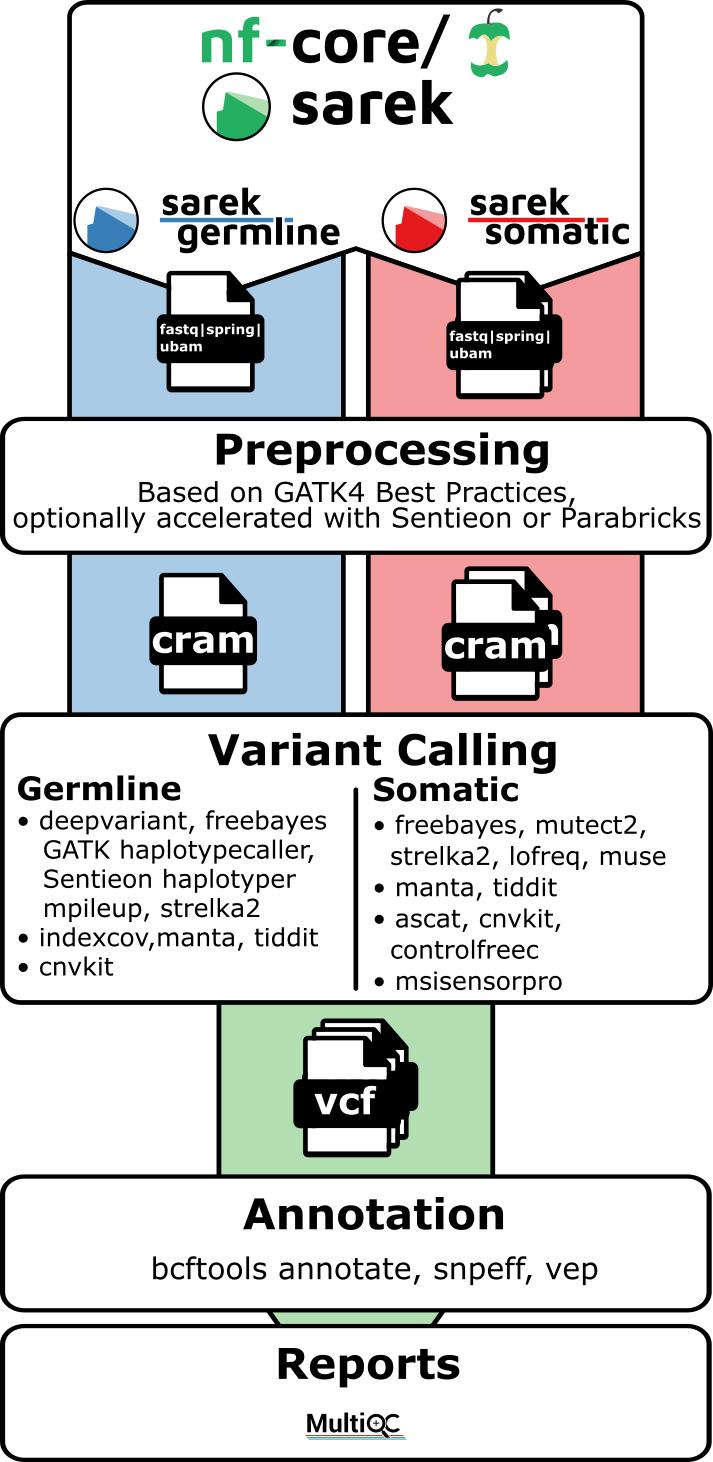
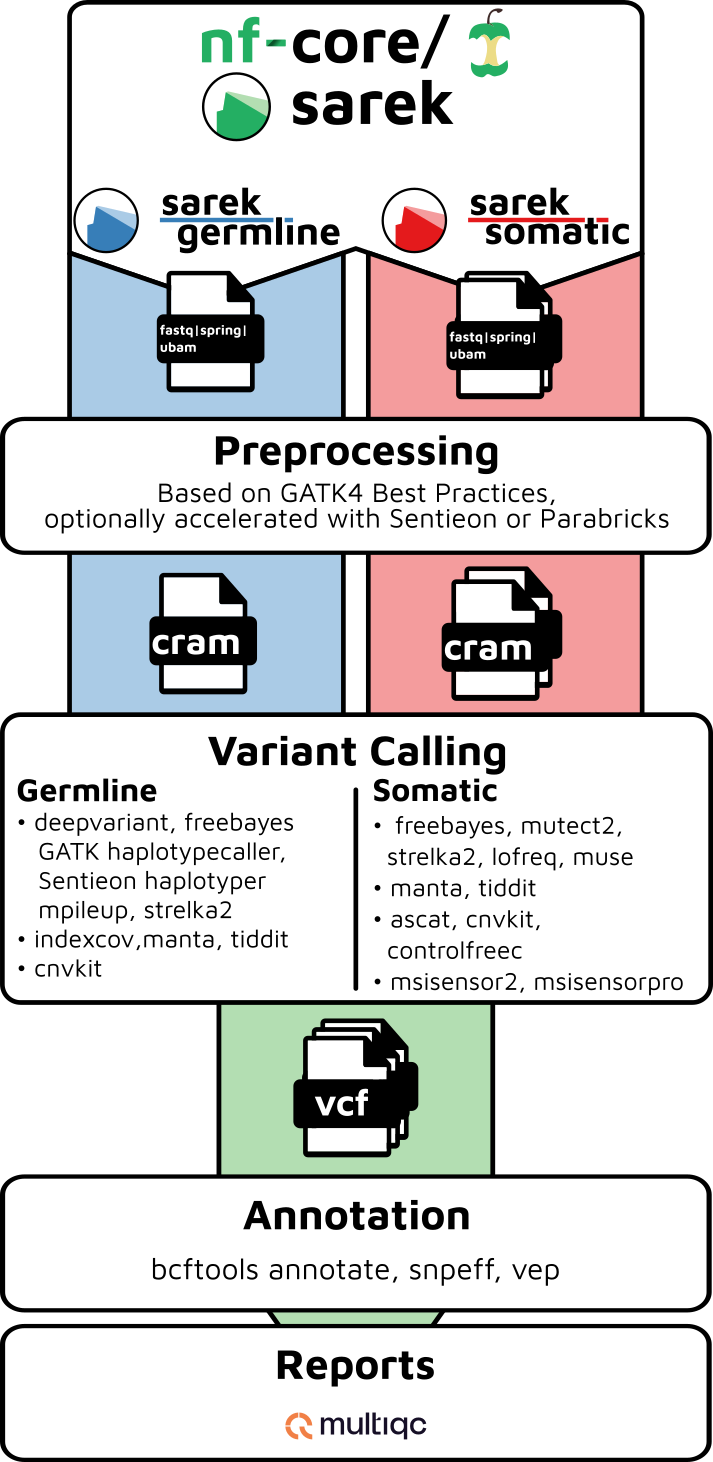
update all figures (#1985)
<!--
# nf-core/sarek pull request

Many thanks for contributing to nf-core/sarek!

Please fill in the appropriate checklist below (delete whatever is not
relevant).
These are the most common things requested on pull requests (PRs).

Remember that PRs should be made against the dev branch, unless you're
preparing a pipeline release.

Learn more about contributing:
[CONTRIBUTING.md](https://github.com/nf-core/sarek/tree/master/.github/CONTRIBUTING.md)
-->

## PR checklist

- [ ] This comment contains a description of changes (with reason).
- [ ] If you've fixed a bug or added code that should be tested, add
tests!
- [ ] If you've added a new tool - have you followed the pipeline
conventions in the [contribution
docs](https://github.com/nf-core/sarek/tree/master/.github/CONTRIBUTING.md)
- [ ] If necessary, also make a PR on the nf-core/sarek _branch_ on the
[nf-core/test-datasets](https://github.com/nf-core/test-datasets)
repository.
- [ ] Make sure your code lints (`nf-core pipelines lint`).
- [ ] Ensure the test suite passes (`nextflow run . -profile test,docker
--outdir <OUTDIR>`).
- [ ] Check for unexpected warnings in debug mode (`nextflow run .
-profile debug,test,docker --outdir <OUTDIR>`).
- [ ] Usage Documentation in `docs/usage.md` is updated.
- [ ] Output Documentation in `docs/output.md` is updated.
- [ ] `CHANGELOG.md` is updated.
- [ ] `README.md` is updated (including new tool citations and
authors/contributors).

diff --git a/CHANGELOG.md b/CHANGELOG.md
@@ -152,6 +152,7 @@ and this project adheres to [Semantic Versioning](https://semver.org/spec/v2.0.0
 - [1970](https://github.com/nf-core/sarek/pull/1970) - Update controlfreec modules to adhere to language server
 - [1975](https://github.com/nf-core/sarek/pull/1975) - Now fails when no dbnsfp_tbi is provided when dbnsfp is
 - [1977](https://github.com/nf-core/sarek/pull/1977) - Update sentieon modules to adhere to language server
+- [1985](https://github.com/nf-core/sarek/pull/1985) - Update subway maps and workflow pictures to include msisensor2 following [1965](https://github.com/nf-core/sarek/pull/1965)
 
 #### Fixed
 
